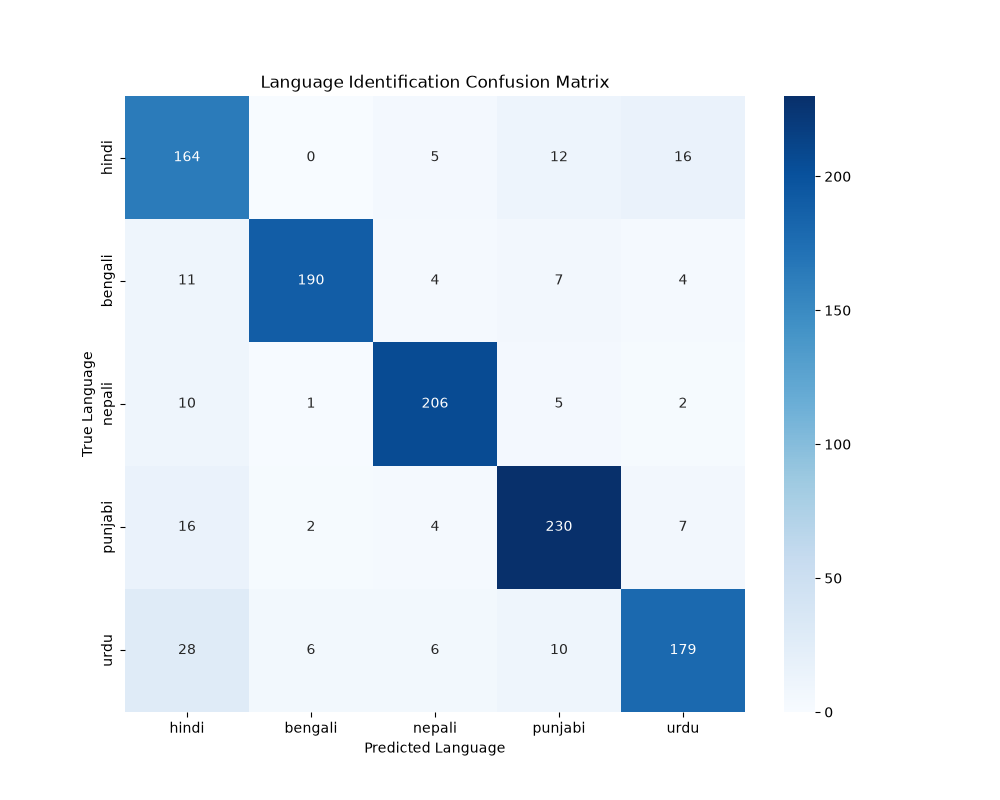
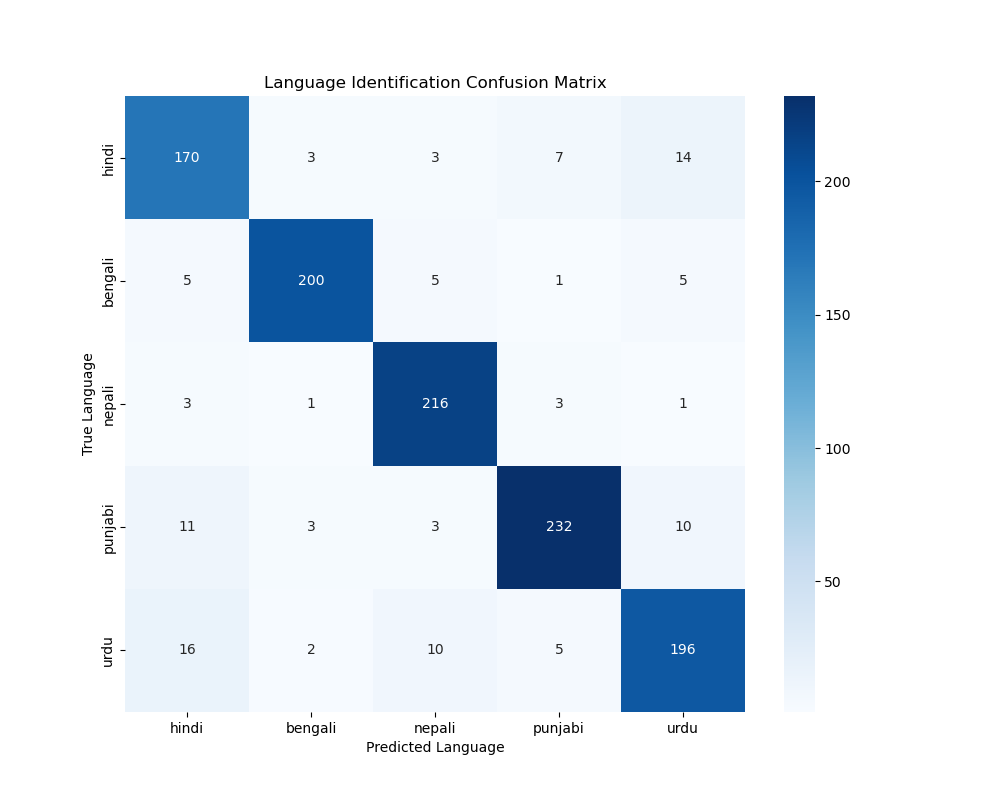
Implement paper exact configuration (M=64, ANN 200 epochs) and CMVN features

diff --git a/src/train.py b/src/train.py
@@ -35,7 +35,7 @@ def extract_and_cache_features(split, metadata, data_dir):
     
     Returns a list of feature matrices and a list of labels.
     """
-    feature_dir = Path(data_dir) / "features" / split
+    feature_dir = Path(data_dir) / "features_v2" / split
     feature_dir.mkdir(parents=True, exist_ok=True)
     
     audio_dir = Path(data_dir) / split / "audio"
@@ -114,7 +114,7 @@ def main():
     
     ubm_dir = model_dir / "gmm_models"
     ubm_dir.mkdir(exist_ok=True)
-    ubm_path = ubm_dir / "ubm.pkl"
+    ubm_path = ubm_dir / "ubm_64_v2.pkl"
     
     if ubm_path.exists():
         print("UBM already exists. Loading from disk...")
@@ -124,7 +124,7 @@ def main():
         # Concatenate all training frames
         train_features_concat = np.vstack(X_train_list)
         
-        MAX_UBM_FRAMES = 2_000_000
+        MAX_UBM_FRAMES = 1_000_000
         if train_features_concat.shape[0] > MAX_UBM_FRAMES:
             print(f"Subsampling from {train_features_concat.shape[0]:,} to {MAX_UBM_FRAMES:,} frames...")
             rng = np.random.RandomState(42)
@@ -142,11 +142,19 @@ def main():
         del train_features_concat
 
     # ---------------------------------------------------------
-    # 4. PHASE 6: SUPERVECTOR EXTRACTION
+    # 4. PHASE 6: SUPERVECTOR EXTRACTION (with caching)
     # ---------------------------------------------------------
     print("\n" + "=" * 60)
     print("PHASE 6: SUPERVECTOR EXTRACTION")
     print("=" * 60)
+    
+    sv_cache_dir = model_dir / "sv_cache_64_v2"
+    sv_cache_dir.mkdir(exist_ok=True)
+    
+    train_sv_path = sv_cache_dir / "X_train_sv.npy"
+    train_labels_path = sv_cache_dir / "y_train.npy"
+    test_sv_path = sv_cache_dir / "X_test_sv.npy"
+    test_labels_path = sv_cache_dir / "y_test.npy"
     
     def extract_supervectors_for_dataset(feature_list, ubm_model):
         """Extracts a MAP-adapted supervector for each utterance."""
@@ -158,15 +166,34 @@ def main():
                 print(f"Extracted {i + 1} supervectors...")
         return np.array(supervectors)
 
-    print("Extracting Supervectors for Train set...")
-    X_train_sv = extract_supervectors_for_dataset(X_train_list, ubm)
-    
-    # Normalize the supervectors
-    scaler = StandardScaler()
-    X_train_sv = scaler.fit_transform(X_train_sv)
-    joblib.dump(scaler, model_dir / "ann_scaler.pkl")
-    
     y_train_idx = np.array([name_to_label[l] for l in y_train_str])
+    y_test_idx = np.array([name_to_label[l] for l in y_test_str])
+
+    if train_sv_path.exists() and test_sv_path.exists():
+        print("Loading cached supervectors from disk...")
+        X_train_sv = np.load(train_sv_path)
+        X_test_sv = np.load(test_sv_path)
+        scaler = joblib.load(model_dir / "ann_scaler.pkl")
+        print(f"Loaded {X_train_sv.shape[0]} train and {X_test_sv.shape[0]} test supervectors.")
+    else:
+        print("Extracting Supervectors for Train set...")
+        X_train_sv = extract_supervectors_for_dataset(X_train_list, ubm)
+        
+        # Normalize the supervectors
+        scaler = StandardScaler()
+        X_train_sv = scaler.fit_transform(X_train_sv)
+        joblib.dump(scaler, model_dir / "ann_scaler.pkl")
+        
+        print("Extracting Supervectors for Test set...")
+        X_test_sv = extract_supervectors_for_dataset(X_test_list, ubm)
+        X_test_sv = scaler.transform(X_test_sv)
+        
+        # Cache to disk
+        np.save(train_sv_path, X_train_sv)
+        np.save(train_labels_path, y_train_idx)
+        np.save(test_sv_path, X_test_sv)
+        np.save(test_labels_path, y_test_idx)
+        print("Supervectors cached to disk.")
     
     # ---------------------------------------------------------
     # 5. PHASE 7: ANN CLASSIFIER
@@ -209,14 +236,6 @@ def main():
     print("\n" + "=" * 60)
     print("PHASE 8: EVALUATION")
     print("=" * 60)
-    
-    print("Extracting Supervectors for Test set...")
-    X_test_sv = extract_supervectors_for_dataset(X_test_list, ubm)
-    
-    # Normalize using the saved scaler
-    X_test_sv = scaler.transform(X_test_sv)
-    
-    y_test_idx = np.array([name_to_label[l] for l in y_test_str])
     
     X_test_tensor = torch.FloatTensor(X_test_sv)
     

diff --git a/src/train_svm.py b/src/train_svm.py
@@ -1,0 +1,52 @@
+import numpy as np
+import joblib
+from pathlib import Path
+from sklearn.svm import SVC
+from sklearn.preprocessing import StandardScaler
+from sklearn.metrics import accuracy_score, classification_report
+from utils import load_config, get_language_mapping
+
+def train_and_eval_svm():
+    model_dir = Path("d:\\SLID_GMM_UBM\\models")
+    sv_cache_dir = model_dir / "sv_cache_64_v2"
+    
+    print("Loading supervectors from cache...")
+    X_train = np.load(sv_cache_dir / "X_train_sv.npy")
+    y_train = np.load(sv_cache_dir / "y_train.npy")
+    X_test = np.load(sv_cache_dir / "X_test_sv.npy")
+    y_test = np.load(sv_cache_dir / "y_test.npy")
+    
+    print(f"X_train shape: {X_train.shape}, y_train shape: {y_train.shape}")
+    print(f"X_test shape: {X_test.shape}, y_test shape: {y_test.shape}")
+    
+    # Scale features
+    print("Scaling features...")
+    scaler = StandardScaler()
+    X_train_scaled = scaler.fit_transform(X_train)
+    X_test_scaled = scaler.transform(X_test)
+    
+    # Paper specifics: OvA (One-vs-Rest), Gaussian (RBF) kernel, regularization factor (C) 1.3
+    print("Training SVM (RBF kernel, C=1.3, OvR)...")
+    # In sklearn, SVC with decision_function_shape='ovr' handles One-vs-Rest natively
+    svm_model = SVC(kernel='rbf', C=1.3, decision_function_shape='ovr', random_state=42)
+    svm_model.fit(X_train_scaled, y_train)
+    
+    print("Evaluating SVM...")
+    y_pred_train = svm_model.predict(X_train_scaled)
+    y_pred_test = svm_model.predict(X_test_scaled)
+    
+    train_acc = accuracy_score(y_train, y_pred_train)
+    test_acc = accuracy_score(y_test, y_pred_test)
+    
+    print(f"\nTrain Accuracy: {train_acc * 100:.2f}%")
+    print(f"Test Accuracy: {test_acc * 100:.2f}%")
+    
+    config = load_config()
+    _, label_to_name = get_language_mapping(config)
+    target_names = [label_to_name[i] for i in range(len(label_to_name))]
+    
+    print("\nClassification Report (Test):")
+    print(classification_report(y_test, y_pred_test, target_names=target_names))
+
+if __name__ == "__main__":
+    train_and_eval_svm()

diff --git a/src/mfcc.py b/src/mfcc.py
@@ -131,6 +131,9 @@ def extract_features(signal, sample_rate):
         axis=1
     )
 
+    # Apply CMVN
+    features = (features - np.mean(features, axis=0)) / (np.std(features, axis=0) + 1e-8)
+
     return features
 if __name__ == "__main__":
 

diff --git a/src/ann.py b/src/ann.py
@@ -86,7 +86,7 @@ def train_ann(model, train_loader, epochs=50, learning_rate=0.001):
         Learning rate for the Adam optimizer.
     """
     criterion = nn.CrossEntropyLoss()
-    optimizer = optim.Adam(model.parameters(), lr=learning_rate)
+    optimizer = optim.Adam(model.parameters(), lr=learning_rate, weight_decay=0.01)
     
     model.train()
     

diff --git a/src/ubm.py b/src/ubm.py
@@ -39,6 +39,7 @@ class UBM:
             covariance_type=covariance_type,
             max_iter=max_iter,
             random_state=random_state,
+            reg_covar=1e-3,     # Increased regularization to prevent singular covariance matrices
             verbose=2,          # Print progress during training
             verbose_interval=10
         )